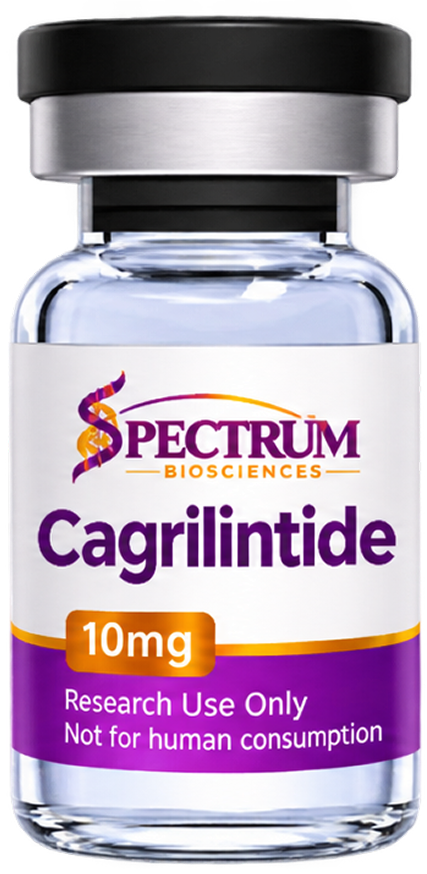
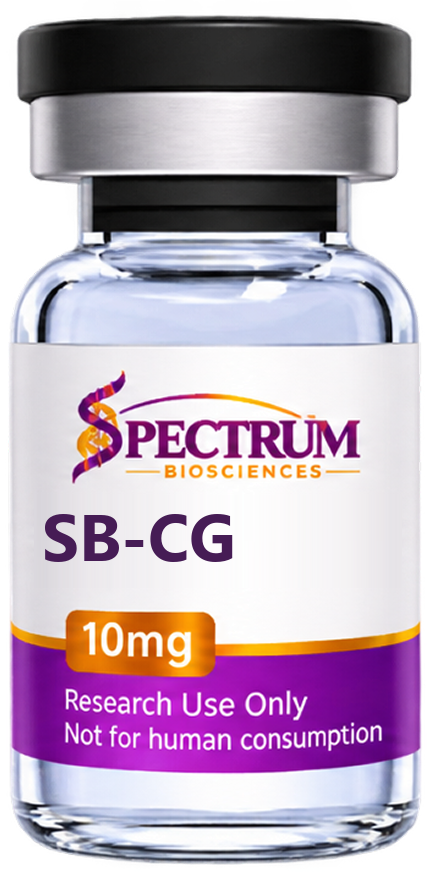
Rename Cagrilintide/Eloralintinde to SB-CG/SB-EL for PRISM review
- Codes replace the compound names across product data, vial art and the shop banner;
  301 the old /products/cagrilintide and /products/eloralintinde URLs
- Research-use-only descriptions; no amylin/appetite/satiety wording
- Drop incretin names and brand terms from the client search aliases

Changed region(s): [[0.0913, 0.5561, 0.9438, 0.6796]]

diff --git a/src/lib/search-aliases.ts b/src/lib/search-aliases.ts
@@ -7,52 +7,6 @@ const compoundAliases: {
   terms: string[];
 }[] = [
   {
-    names: ["glp3r", "glp3rt", "retatrutide"],
-    plainCode: 3,
-    terms: [
-      "reta",
-      "retra",
-      "retatrutide",
-      "retrutide",
-      "retatutide",
-      "retratutida",
-      "glp3",
-      "3r",
-    ],
-  },
-  {
-    names: ["glp3s", "glp1s", "semaglutide"],
-    plainCode: 1,
-    terms: [
-      "sema",
-      "semaglutide",
-      "semiglutide",
-      "glp1",
-      "1s",
-      "ozempic",
-      "wegovy",
-    ],
-  },
-  {
-    names: ["glp3t", "glp2t", "glp1t", "tirzepatide"],
-    plainCode: 2,
-    terms: [
-      "tirz",
-      "triz",
-      "tirze",
-      "trizep",
-      "tirzepatide",
-      "trizepatide",
-      "tirsepatide",
-      "tirzepatida",
-      "terzipatide",
-      "glp2",
-      "2t",
-      "mounjaro",
-      "zepbound",
-    ],
-  },
-  {
     names: ["bacteriostatic", "bacwater"],
     terms: ["bac", "bac water", "water", "hospira"],
   },
@@ -77,7 +31,7 @@ const compoundAliases: {
   { names: ["glow"], terms: ["gol", "glo", "glória"] },
   { names: ["dsip"], terms: ["sleep", "disp", "delta sleep"] },
   { names: ["pt141"], terms: ["pt", "141"] },
-  { names: ["cagrilintide"], terms: ["cag", "cagri", "cagril"] },
+  { names: ["sbcg"], terms: ["sb-cg", "sbcg", "cg"] },
   { names: ["selank"], terms: ["zelac", "sel"] },
   { names: ["aod9604"], terms: ["aod"] },
   { names: ["ipamorelin"], terms: ["ipa", "ipamor"] },
@@ -102,7 +56,7 @@ const compoundAliases: {
   },
   { names: ["oxytocin"], terms: ["oxy", "oxcytocin", "oxytocin peptide"] },
   { names: ["ll37"], terms: ["ll"] },
-  { names: ["eloralintide"], terms: ["elora", "el", "elor"] },
+  { names: ["sbel"], terms: ["sb-el", "sbel", "el"] },
   { names: ["cartalax"], terms: ["catalan", "cartilax"] },
   { names: ["cjc1295ipamorelin"], terms: ["cdc-1295", "cjc imp", "cjc ipa"] },
   { names: ["vip"], terms: ["vp"] },

diff --git a/src/data/products.ts b/src/data/products.ts
@@ -157,16 +157,16 @@ export const snapshotProducts: SnapshotProduct[] = [
   },
   {
     id: "7",
-    slug: "cagrilintide",
-    name: "Cagrilintide",
+    slug: "sb-cg",
+    name: "SB-CG",
     category: "Research Peptides",
     description:
-      "Research peptide supplied for controlled scientific investigation of biochemical pathways.",
-    image: "/products/Cagrilintide.webp",
+      "SB-CG is supplied for laboratory research use only. Not for human consumption.",
+    image: "/products/sb-cg.webp",
     badge: null,
     variants: [
       {
-        id: "cagrilintide-10mg",
+        id: "sb-cg-10mg",
         label: "10mg",
         price: 99,
         compareAt: 119,
@@ -217,16 +217,16 @@ export const snapshotProducts: SnapshotProduct[] = [
   },
   {
     id: "10",
-    slug: "eloralintinde",
-    name: "Eloralintinde",
+    slug: "sb-el",
+    name: "SB-EL",
     category: "Research Peptides",
     description:
-      "Research compound supplied for laboratory investigation and analytical applications.",
-    image: "/products/eloralintinde.webp",
+      "SB-EL is supplied for laboratory research use only. Not for human consumption.",
+    image: "/products/sb-el.webp",
     badge: null,
     variants: [
       {
-        id: "eloralintinde-10mg",
+        id: "sb-el-10mg",
         label: "10mg",
         price: 119,
         compareAt: 139,

diff --git a/next.config.ts b/next.config.ts
@@ -23,6 +23,14 @@ const config: NextConfig = {
   poweredByHeader: false,
   eslint: { ignoreDuringBuilds: true },
   images: { remotePatterns: wooImagePatterns() },
+  async redirects() {
+    // Renamed for the PRISM review: old product addresses move permanently.
+    return [
+      { source: "/products/cagrilintide", destination: "/products/sb-cg", permanent: true },
+      { source: "/products/eloralintinde", destination: "/products/sb-el", permanent: true },
+      { source: "/products/eloralintide", destination: "/products/sb-el", permanent: true },
+    ];
+  },
   async headers() {
     return [
       {

diff --git a/src/components/ShopHero.tsx b/src/components/ShopHero.tsx
@@ -15,7 +15,7 @@ import {
 const heroProducts = [
   { id: 1, name: "BPC-157", image: "/assets/cta-1.png" },
   { id: 2, name: "BPC + KPV", image: "/assets/cta-2.png" },
-  { id: 3, name: "Cagrilintide", image: "/assets/cta-3.png" },
+  { id: 3, name: "SB-CG", image: "/assets/cta-3.png" },
   { id: 4, name: "5-Amino 1-MQ", image: "/assets/cta-4.png" },
   { id: 5, name: "5-Amino 1-MQ", image: "/assets/cta-5.png" },
 ];
